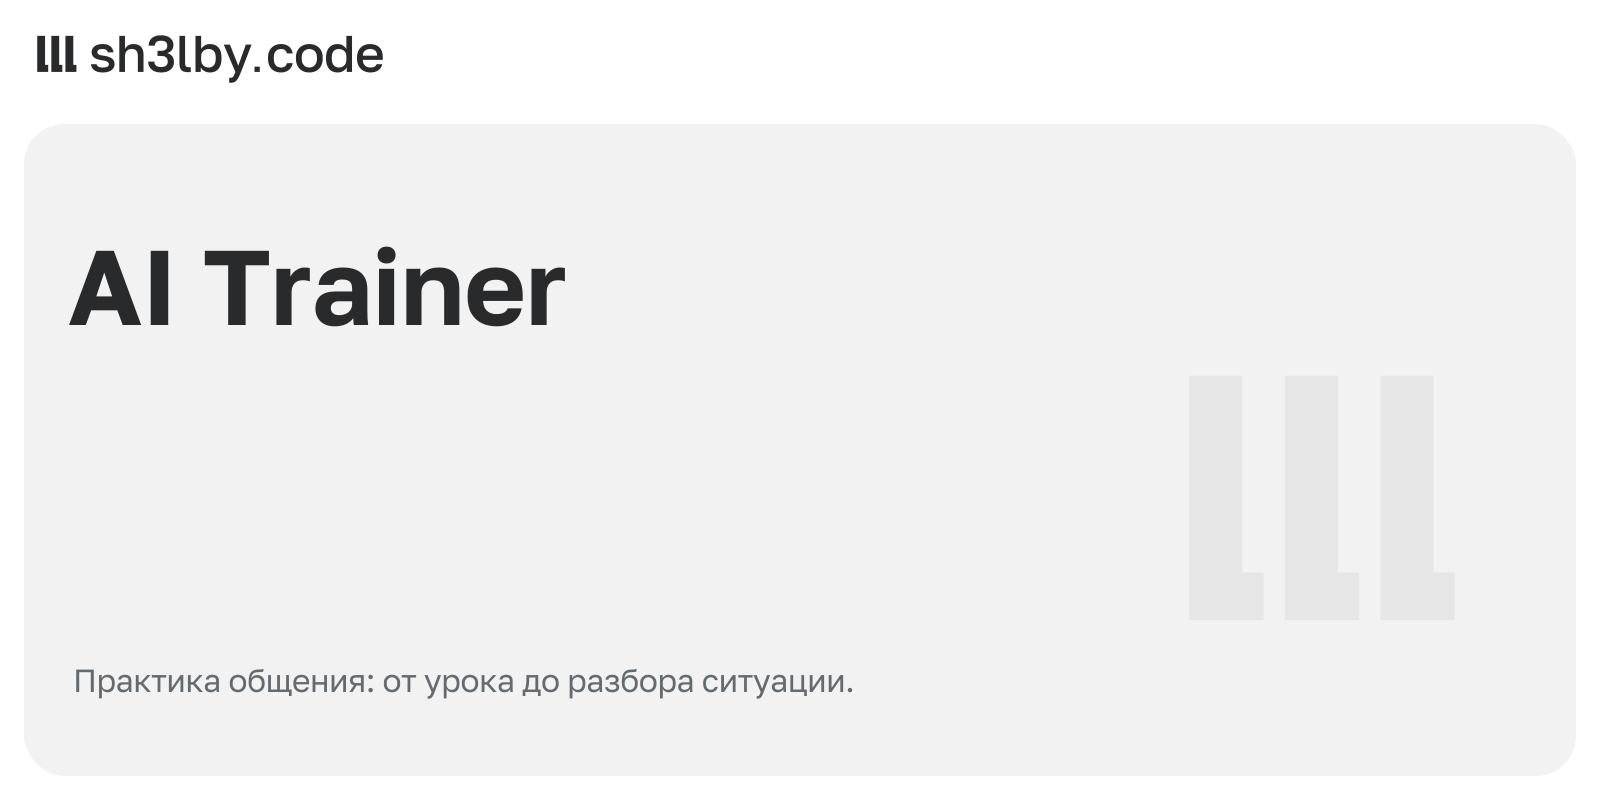
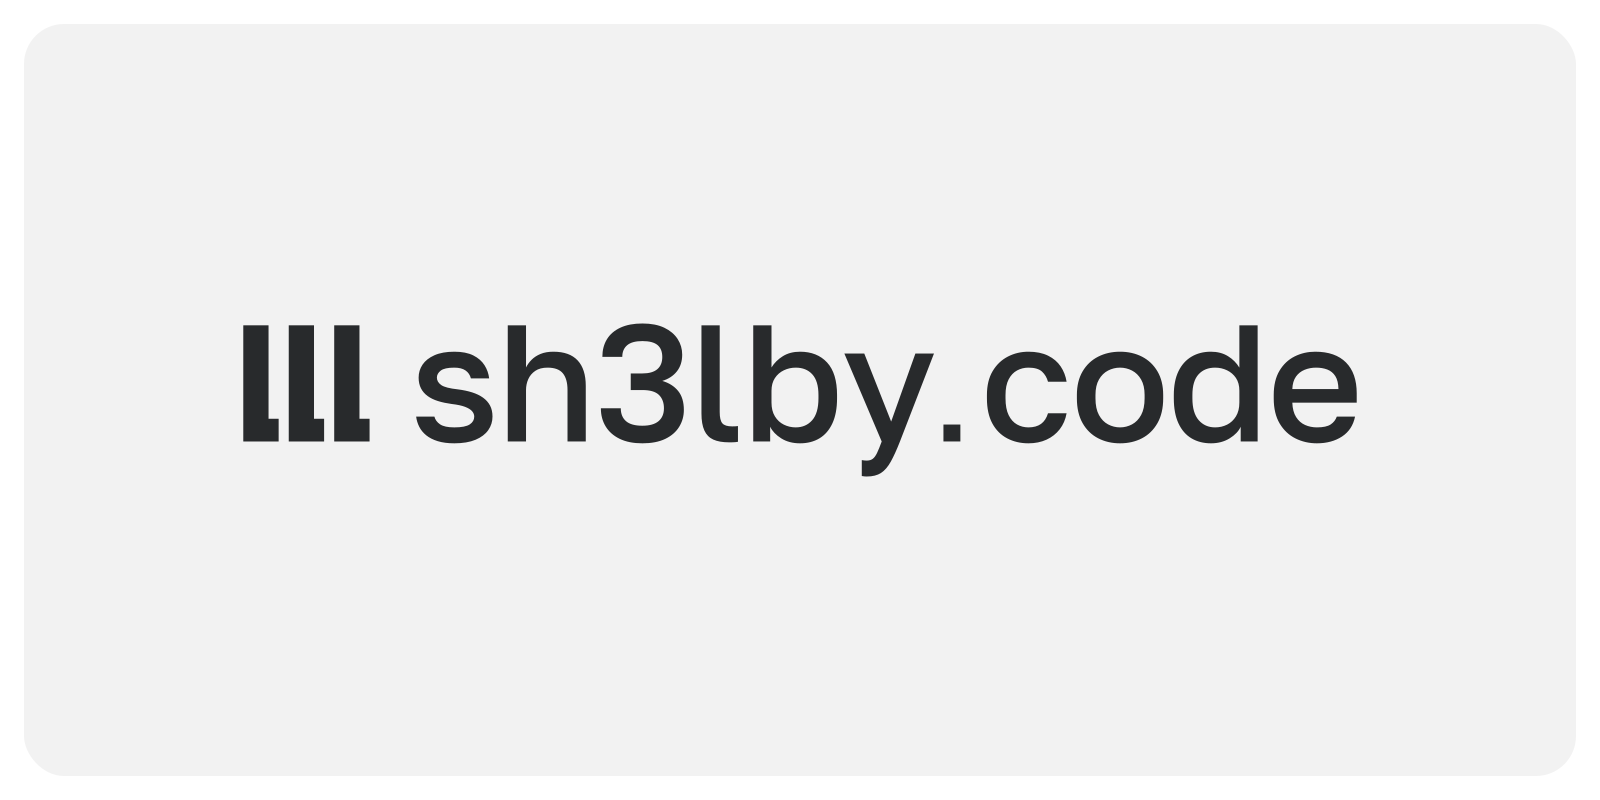
docs: use neutral_banner generator without customization

Changed region(s): [[0.0312, 0.3125, 0.875, 0.5938], [0.0312, 0.8438, 0.5312, 0.875], [0.0, 0.0312, 0.25, 0.0938]]

diff --git a/README.md b/README.md
@@ -1,7 +1,7 @@
 # AI Trainer
 
 <!-- portfolio-card:start -->
-[![AI Trainer — Практика общения: от урока до разбора ситуации.](docs/portfolio/card.png)](docs/portfolio/card.svg)
+[![sh3lby.code — нейтральная обложка](docs/portfolio/card.png)](docs/portfolio/card.svg)
 <!-- portfolio-card:end -->
 
 Telegram bot that trains communication skills: structured lessons (block → lesson → step), quizzes, points and insights, plus an LLM that analyses user-written situations and flags toxic phrasing. Ships with an HTTP API so a website can run the onboarding quiz and hand results back to the bot.
